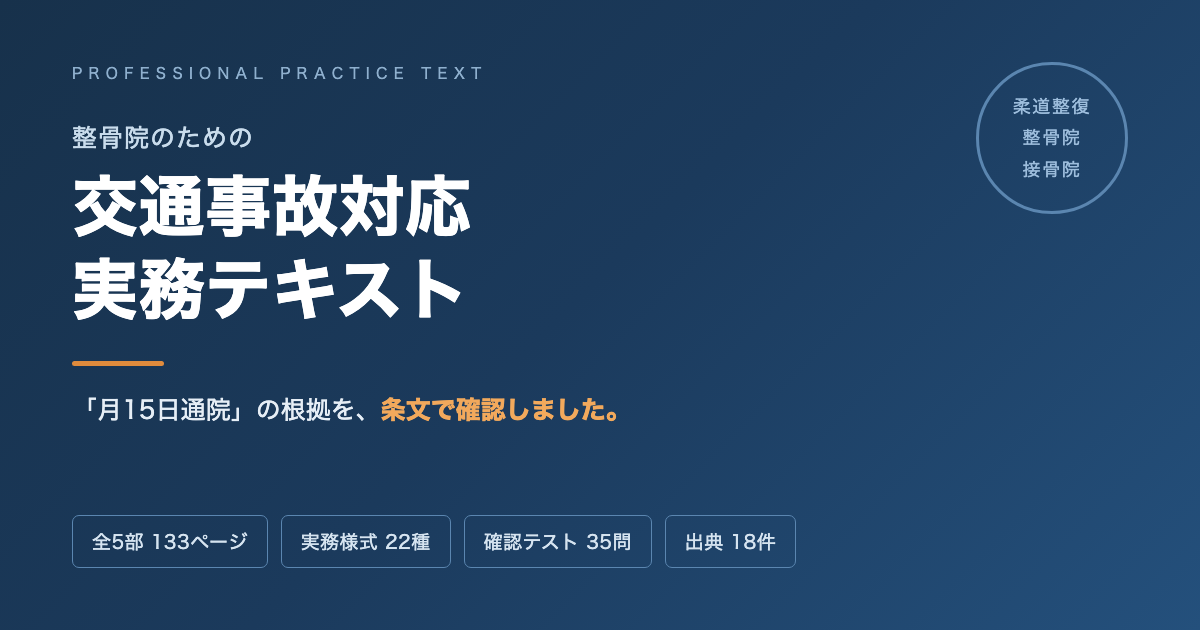
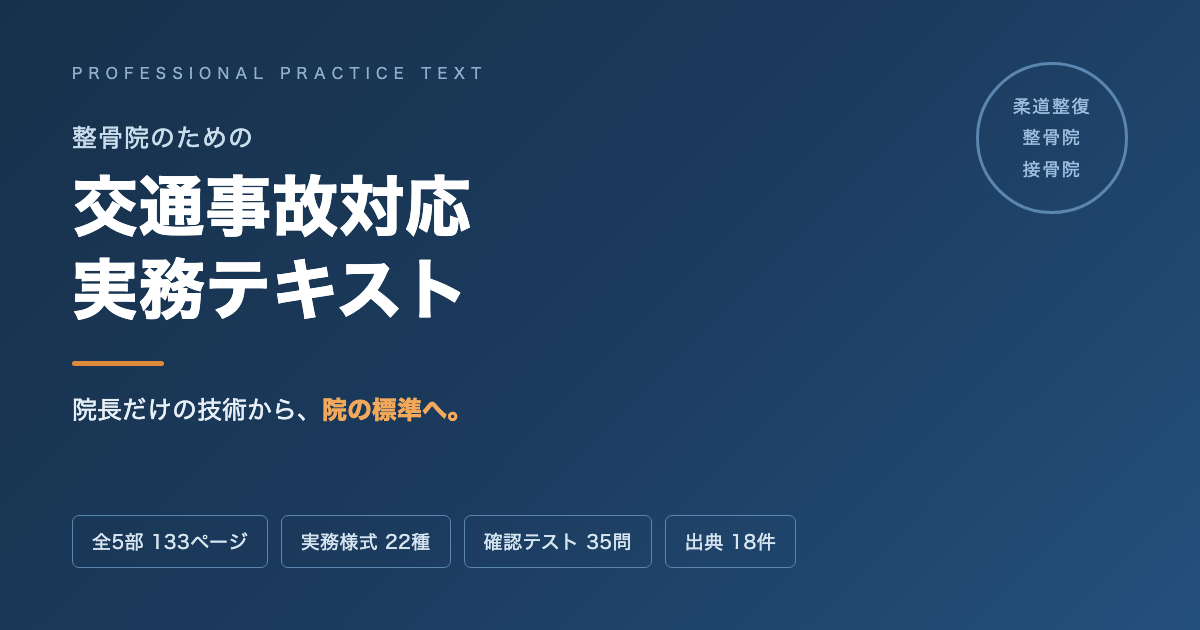
販売ページの入口を、公式LINEの文面と揃える
条文の話から始めると、LINEで「事故で売上の柱を」と読んで来た人と
話がつながらないため、現場の困りごとから入る構成に変更。
- ヒーロー「交通事故対応を、院長だけの技術から院の標準にする。」
- 導入を「事故対応が止まるのは、だいたい同じ場所です」に
- OGPの文言とサムネイル画像も同じトーンに統一

Changed region(s): [[0.0617, 0.6333, 0.5242, 0.6937]]

diff --git a/kotsujiko/index.html b/kotsujiko/index.html
@@ -4,9 +4,9 @@
 <meta charset="utf-8">
 <meta name="viewport" content="width=device-width,initial-scale=1">
 <title>整骨院のための交通事故対応実務テキスト｜株式会社nature</title>
-<meta name="description" content="「月15日通院」の根拠を条文で確認しました。整骨院・接骨院のための交通事故対応実務テキスト。全5部133ページ、実務様式22種、出典18件つき。">
+<meta name="description" content="交通事故対応を、院長だけの技術から院の標準に。受付も勤務柔整師も同じ説明ができるようになる、整骨院・接骨院のための実務テキスト。全5部133ページ、実務様式22種、出典18件つき。">
 <meta property="og:title" content="整骨院のための交通事故対応実務テキスト">
-<meta property="og:description" content="「月15日通院」の根拠を、条文で確認しました。結果は、本書に書いてあります。">
+<meta property="og:description" content="交通事故対応を、院長だけの技術から院の標準に。受付スタッフも勤務柔整師も、同じ説明ができるようになるための1冊です。">
 <meta property="og:type" content="website">
 <meta property="og:url" content="https://nature2026.github.io/online/kotsujiko/">
 <meta property="og:image" content="https://nature2026.github.io/online/kotsujiko/images/cover.png">
@@ -44,6 +44,7 @@ strong{font-weight:700}
 .hero .kick{font-size:11px;letter-spacing:.28em;color:#9DBDDC;margin-bottom:18px}
 .hero h1{font-size:27px;line-height:1.55;font-weight:700;letter-spacing:.01em}
 .hero h1 .em{color:#FFD9A0}
+.hero .lead2{display:block;margin-top:14px;font-size:15px;font-weight:400;line-height:1.85;color:#C9DCEC}
 .hero .sub{margin-top:20px;font-size:15px;color:#C9DCEC;line-height:1.95}
 .hero .spec{margin-top:26px;display:flex;flex-wrap:wrap;gap:8px}
 .hero .spec span{border:1px solid #4A7BA7;border-radius:4px;padding:5px 11px;font-size:12.5px;color:#C9DCEC}
@@ -132,10 +133,11 @@ footer .co{font-weight:700;color:var(--ink);font-size:14px;margin-bottom:6px}
 <section class="hero">
   <div class="wrap">
     <div class="kick">PROFESSIONAL PRACTICE TEXT</div>
-    <h1>「月15日通院」の根拠を、<br><span class="em">条文で確認しました。</span><br>結果は、本書に書いてあります。</h1>
+    <h1>交通事故対応を、<br><span class="em">院長だけの技術から</span><br>院の標準にする。</h1>
     <div class="sub">
       整骨院のための<br>
-      <strong>交通事故対応 実務テキスト</strong>
+      <strong>交通事故対応 実務テキスト</strong><br>
+      <span class="lead2">受付スタッフも、勤務柔整師も、<br>同じ説明ができるようになるための1冊です。</span>
     </div>
     <div class="spec">
       <span>全5部 133ページ</span>
@@ -151,8 +153,9 @@ footer .co{font-weight:700;color:var(--ink);font-size:14px;margin-bottom:6px}
 <!-- ============ 課題 ============ -->
 <section>
   <div class="wrap">
-    <h2>その話、法律で決まっていますか</h2>
-    <p>交通事故対応について、こんな話を聞いたことはないでしょうか。</p>
+    <h2>事故対応が止まるのは、だいたい同じ場所です</h2>
+    <p>交通事故の問い合わせが入ったとき、受付が「院長に代わります」としか言えない。院長が不在の日に、問い合わせが止まる。スタッフによって説明が違う。<strong>取りこぼしの多くは、技術ではなく知識の偏りで起きています。</strong></p>
+    <p style="margin-top:14px">そして、その知識自体が、こんな話で止まっていないでしょうか。</p>
     <ul class="dot">
       <li>「交通事故の患者さんは、月15日は通ってもらわないと」</li>
       <li>「事故から2週間以内に病院に行かないと、自賠責は使えない」</li>
@@ -160,7 +163,7 @@ footer .co{font-weight:700;color:var(--ink);font-size:14px;margin-bottom:6px}
       <li>「自賠責の120万円までは無料」</li>
     </ul>
     <p style="margin-top:14px"><strong>これらが法律で決まっていることなのか、保険会社の運用なのか、誰かの経験則なのか。</strong>区別して説明できる方は、どれくらいいらっしゃるでしょうか。</p>
-    <p>本書は、この区別をつけるための教材です。</p>
+    <p>患者さんに誤った説明をすれば、信頼を失います。逆に、根拠をもって説明できる院は、それだけで選ばれます。<strong>本書は、その区別をつけるための教材です。</strong></p>
   </div>
 </section>
 
